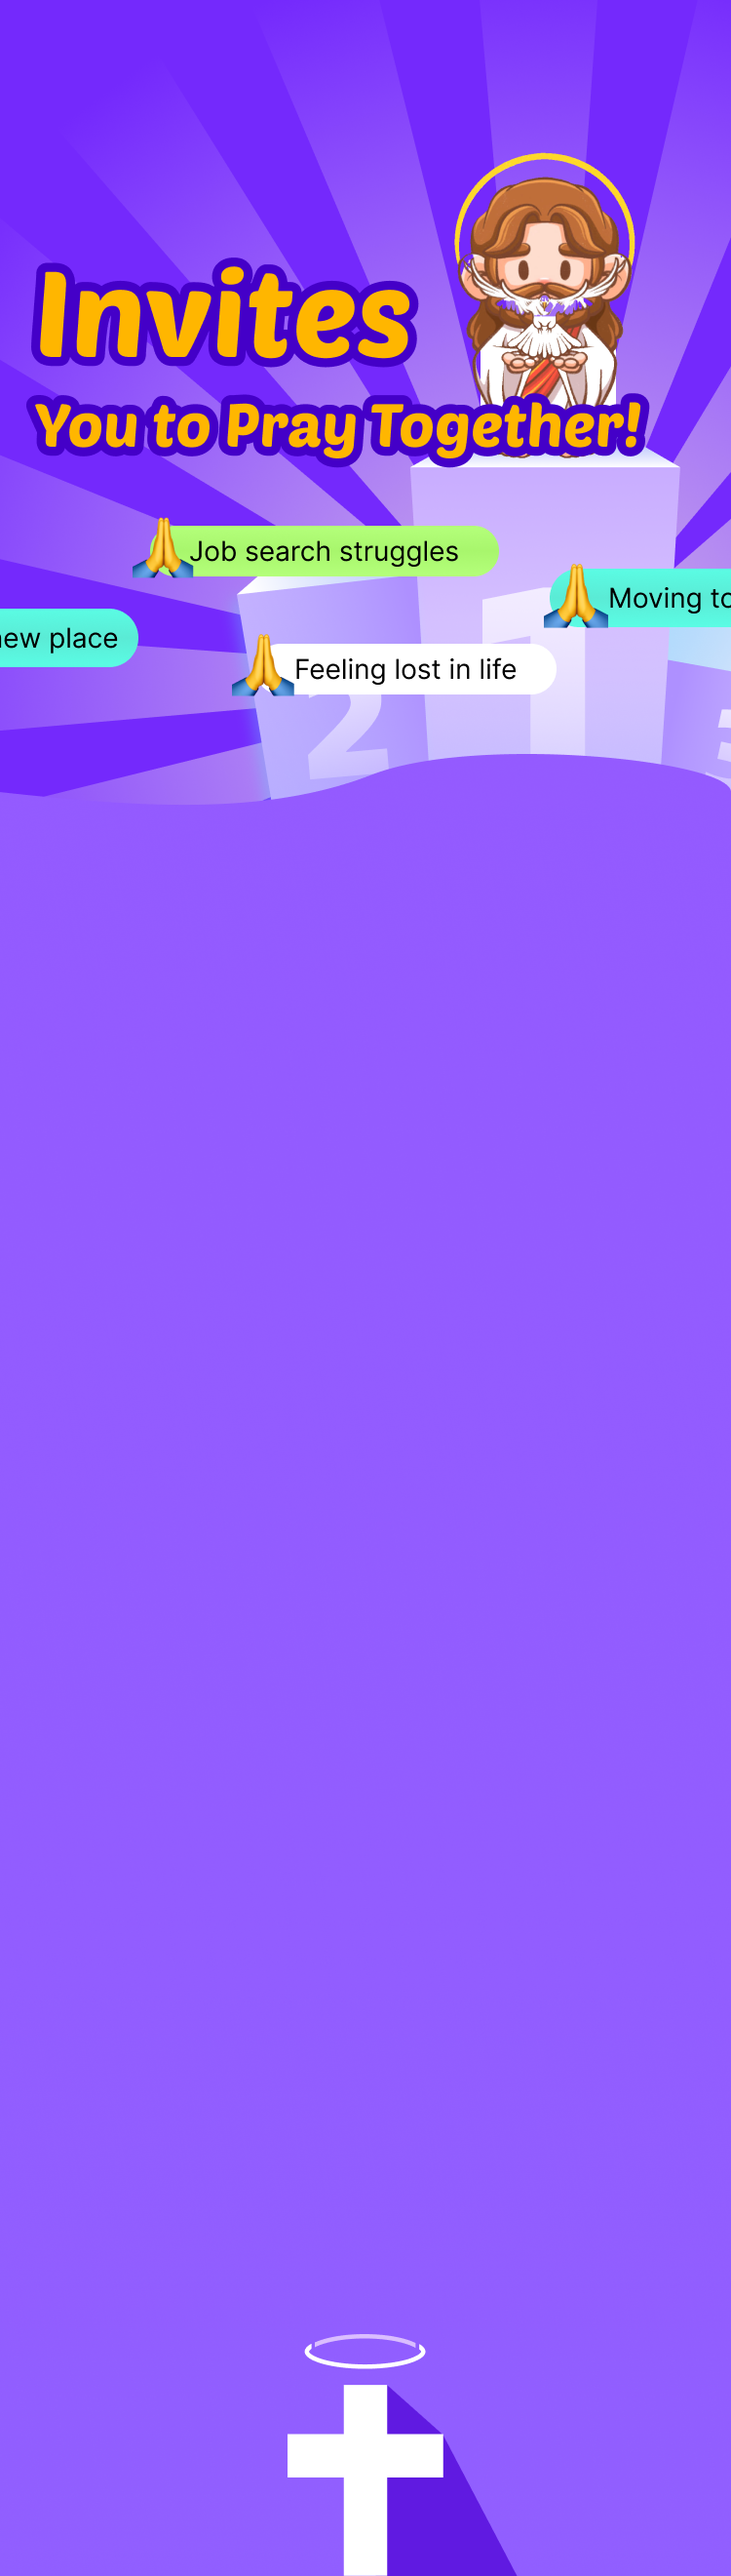
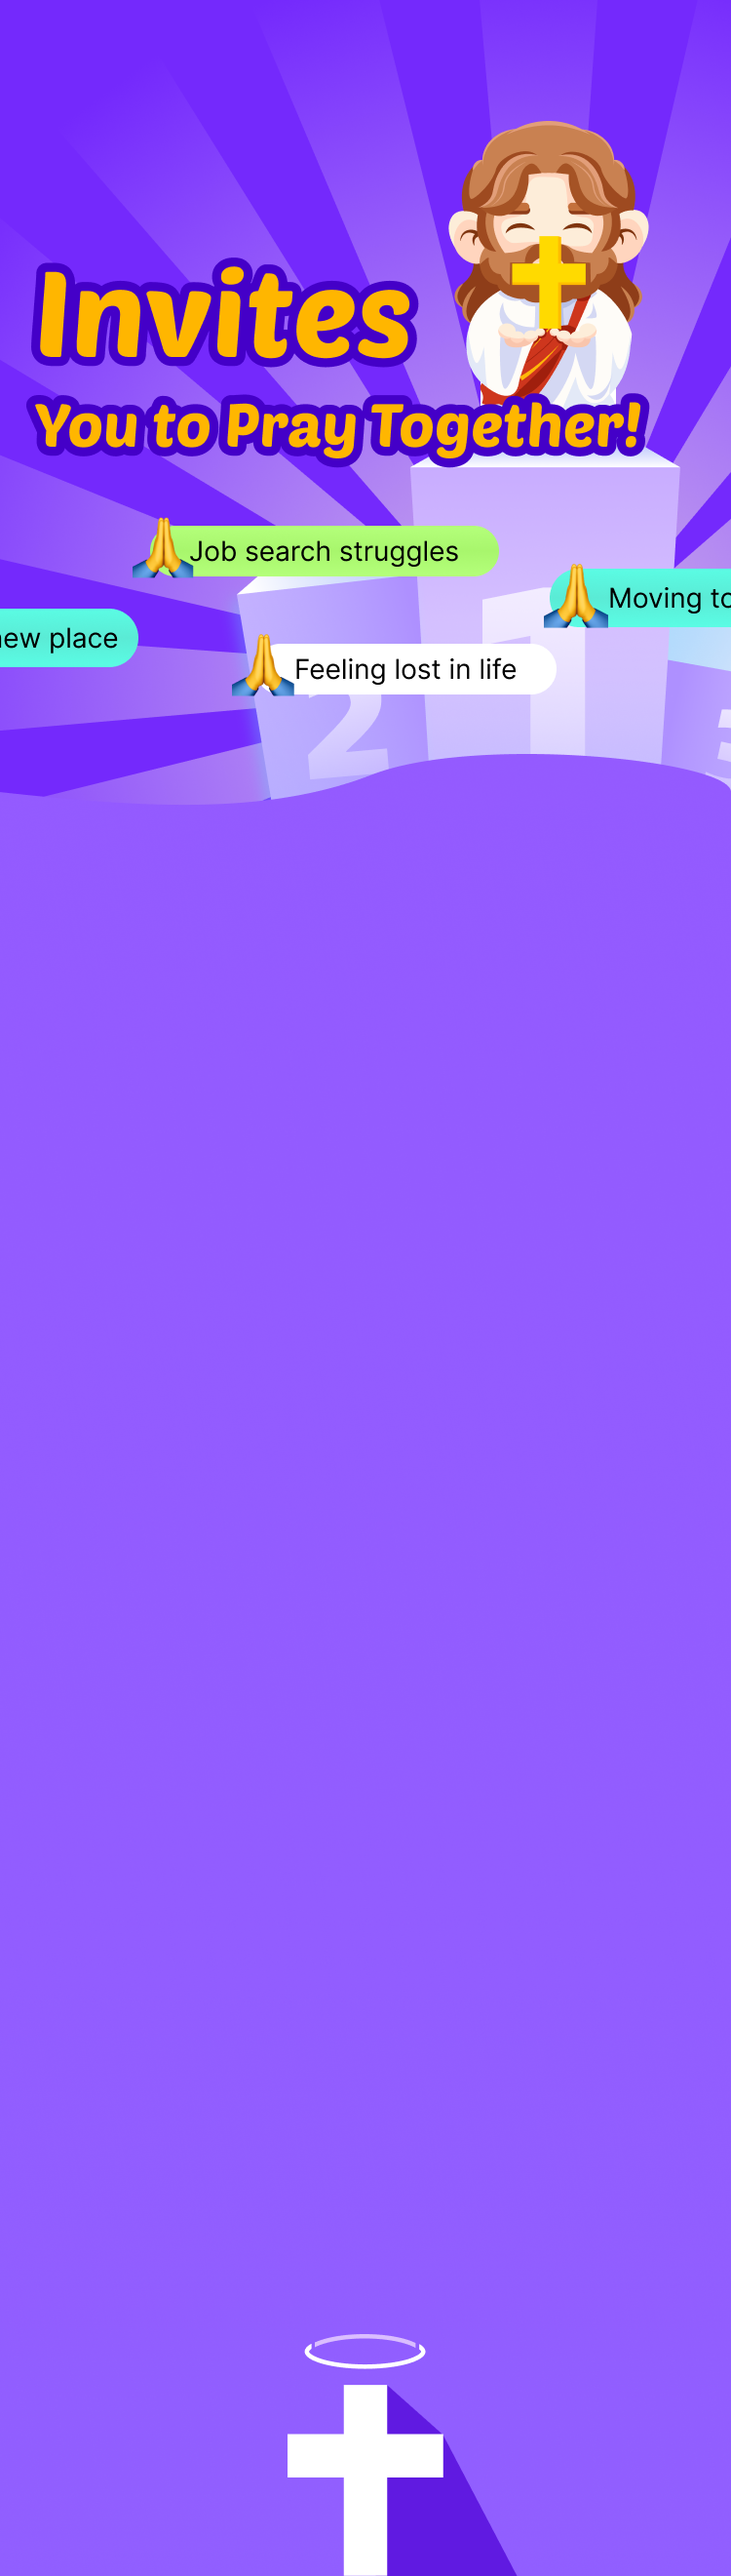
feat: Add personalized name display and improve invite page styling

Changed region(s): [[0.6133, 0.031, 0.8893, 0.1863]]

diff --git a/app/invite/page.tsx b/app/invite/page.tsx
@@ -4,6 +4,7 @@ import { useEffect, useState, Suspense } from "react";
 import { useSearchParams } from "next/navigation";
 import { Copy } from "lucide-react";
 import Image from "next/image";
+import { fontSans } from "@/config/fonts";
 
 function QuestionDialog({ onAnswer }: { onAnswer: (isUser: boolean) => void }) {
   return (
@@ -77,11 +78,26 @@ function InvitePageContent() {
   const searchParams = useSearchParams();
   const [showQuestion, setShowQuestion] = useState(true);
   const [showRules, setShowRules] = useState(false);
+  const [name, setName] = useState<string | null>(null);
 
   useEffect(() => {
     const code = searchParams.get("inviteCode");
     setInviteCode(code);
+    const name = searchParams.get("name");
+    setName(name);
   }, [searchParams]);
+
+  useEffect(() => {
+    if (showQuestion) {
+      document.body.style.overflow = "hidden";
+    } else {
+      document.body.style.overflow = "auto";
+    }
+
+    return () => {
+      document.body.style.overflow = "auto";
+    };
+  }, [showQuestion]);
 
   const handleAnswer = (isUser: boolean) => {
     setShowQuestion(false);
@@ -108,9 +124,31 @@ function InvitePageContent() {
   return (
     <>
       <div
-        className="w-full bg-cover bg-top bg-no-repeat relative"
+        className={`w-full bg-cover bg-top bg-no-repeat relative ${fontSans.className}`}
         style={{ backgroundImage: "url('/invite/old-user-background.png')" }}
       >
+        {name && (
+          <div
+            className="absolute top-[100px] left-[20px] text-white text-[31px] font-bold"
+            style={{
+              textShadow: `
+                -2.5px -2.5px 0 #4400C8,
+                -2.5px 0 0 #4400C8,
+                -2.5px 2.5px 0 #4400C8,
+                0 -2.5px 0 #4400C8,
+                0 2.5px 0 #4400C8,
+                2.5px -2.5px 0 #4400C8,
+                2.5px 0 0 #4400C8,
+                2.5px 2.5px 0 #4400C8
+              `,
+              WebkitFontSmoothing: "antialiased",
+              MozOsxFontSmoothing: "grayscale",
+            }}
+          >
+            {name}
+          </div>
+        )}
+
         <div
           className="absolute top-[68px] right-0 bg-[#00000050] text-[#ffffffc2] px-4 py-1 rounded-l-full font-medium cursor-pointer"
           onClick={() => setShowRules(true)}
@@ -155,7 +193,7 @@ function InvitePageContent() {
         </div>
 
         <img
-          src="/invite/how-to-pray-2.png"
+          src="/invite/how-to-pray.png"
           alt="how to pray"
           className="p-4 mt-1"
         />
